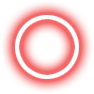
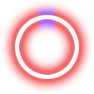
mess with halo physics in attempts to fix "stickyness"

Changed region(s): [[0.4043, 0.1915, 0.5957, 0.3404], [0.4043, 0.0638, 0.5957, 0.1702]]

diff --git a/Space Cannon/GameScene.swift b/Space Cannon/GameScene.swift
@@ -8,7 +8,7 @@
 
 import SpriteKit
 
-class GameScene: SKScene {
+class GameScene: SKScene, SKPhysicsContactDelegate {
 	
 	let _mainLayer = SKNode()
 	let _cannon = SKSpriteNode(imageNamed: "Cannon")
@@ -16,6 +16,11 @@ class GameScene: SKScene {
 	let HaloLowAngle = CGFloat(200 * M_PI / 180.0)
 	let HaloMaxAngle = CGFloat(340 * M_PI / 180.0)
 	let HaloSpeed:CGFloat = 100.0
+	
+	let HaloCategory:UInt32 = 0x1 << 0;
+	let BallCategory:UInt32 = 0x1 << 1;
+	let EdgeCategory:UInt32 = 0x1 << 2;
+	
 	var _didShoot = false
 	
 	func radiansToVector(radians:CGFloat) -> CGVector {
@@ -28,27 +33,11 @@ class GameScene: SKScene {
 		return CGFloat(randomAssNumber)
 	}
 	
-	func spawnHalo() {
-		let halo = SKSpriteNode(imageNamed: "Halo")
-		halo.position = CGPointMake(
-			randomInRange(halo.size.width/2, high: self.size.width - (halo.size.width/2)),
-			self.size.height + (halo.size.width/2)
-		)
-		
-		halo.physicsBody = SKPhysicsBody(circleOfRadius: 16)
-		var direction = radiansToVector(randomInRange(HaloLowAngle, high: HaloMaxAngle))
-		halo.physicsBody?.velocity = CGVectorMake(direction.dx * HaloSpeed, direction.dy * HaloSpeed)
-		halo.physicsBody?.restitution = 1.0
-		halo.physicsBody?.linearDamping = 0.0
-		halo.physicsBody?.friction = 0.0
-		
-		self.addChild(halo)
-	}
-	
     override func didMoveToView(view: SKView) {
 		
 		// Disable gravity
 		self.physicsWorld.gravity = CGVectorMake(0.0, 0.0)
+		self.physicsWorld.contactDelegate = self
 		
 		// Add background
 		let background = SKSpriteNode(imageNamed: "Starfield")
@@ -60,11 +49,14 @@ class GameScene: SKScene {
 		
 		// Add Edges
 		let leftEdge = SKNode()
-		let rightEdge = SKNode()
 		leftEdge.physicsBody = SKPhysicsBody(edgeFromPoint: CGPointZero, toPoint: CGPointMake(0.0, self.size.height * 2))
-		rightEdge.physicsBody = SKPhysicsBody(edgeFromPoint: CGPointZero, toPoint: CGPointMake(0.0, self.size.height * 2))
 		leftEdge.position = CGPointZero
+		leftEdge.physicsBody?.categoryBitMask = EdgeCategory
+		
+		let rightEdge = SKNode()
+		rightEdge.physicsBody = SKPhysicsBody(edgeFromPoint: CGPointZero, toPoint: CGPointMake(0.0, self.size.height * 2))
 		rightEdge.position = CGPointMake(self.size.width, 0.0)
+		rightEdge.physicsBody?.categoryBitMask = EdgeCategory
 		
 		self.addChild(leftEdge)
 		self.addChild(rightEdge)
@@ -108,11 +100,36 @@ class GameScene: SKScene {
 		let x_speed = CGFloat(Double(rotationVector.dx) * SHOOT_SPEED)
 		let y_speed = CGFloat(Double(rotationVector.dy) * SHOOT_SPEED)
 		ball.physicsBody?.velocity = CGVectorMake(x_speed, y_speed)
+		ball.size.width = self.size.width/12
+		ball.size.height = self.size.width/12
 		ball.physicsBody?.restitution = 1.0
 		ball.physicsBody?.linearDamping = 0.0
 		ball.physicsBody?.friction = 0.0
+		ball.physicsBody?.categoryBitMask = BallCategory
+		ball.physicsBody?.collisionBitMask = EdgeCategory
 		
 		_mainLayer.addChild(ball)
+	}
+	
+	func spawnHalo() {
+		let halo = SKSpriteNode(imageNamed: "Halo")
+		halo.position = CGPointMake(
+			randomInRange(halo.size.width/2, high: self.size.width - (halo.size.width/2)),
+			self.size.height + (halo.size.width/2)
+		)
+		
+		halo.physicsBody = SKPhysicsBody(circleOfRadius: 16)
+		var direction = radiansToVector(randomInRange(HaloLowAngle, high: HaloMaxAngle))
+		halo.size.width = self.size.width/8
+		halo.size.height = self.size.width/8
+		halo.physicsBody?.velocity = CGVectorMake(direction.dx * HaloSpeed, direction.dy * HaloSpeed)
+		halo.physicsBody?.restitution = 1.0
+		halo.physicsBody?.linearDamping = 0.0
+		halo.physicsBody?.friction = 0.0
+		halo.physicsBody?.categoryBitMask = HaloCategory
+		halo.physicsBody?.collisionBitMask = EdgeCategory
+		halo.physicsBody?.contactTestBitMask = BallCategory
+		_mainLayer.addChild(halo)
 	}
     
     override func touchesBegan(touches: NSSet, withEvent event: UIEvent) {
@@ -121,8 +138,6 @@ class GameScene: SKScene {
         for touch: AnyObject in touches {
 			_didShoot = true
 		}
-		
-		spawnHalo()
     }
 	
 	override func didSimulatePhysics() {
